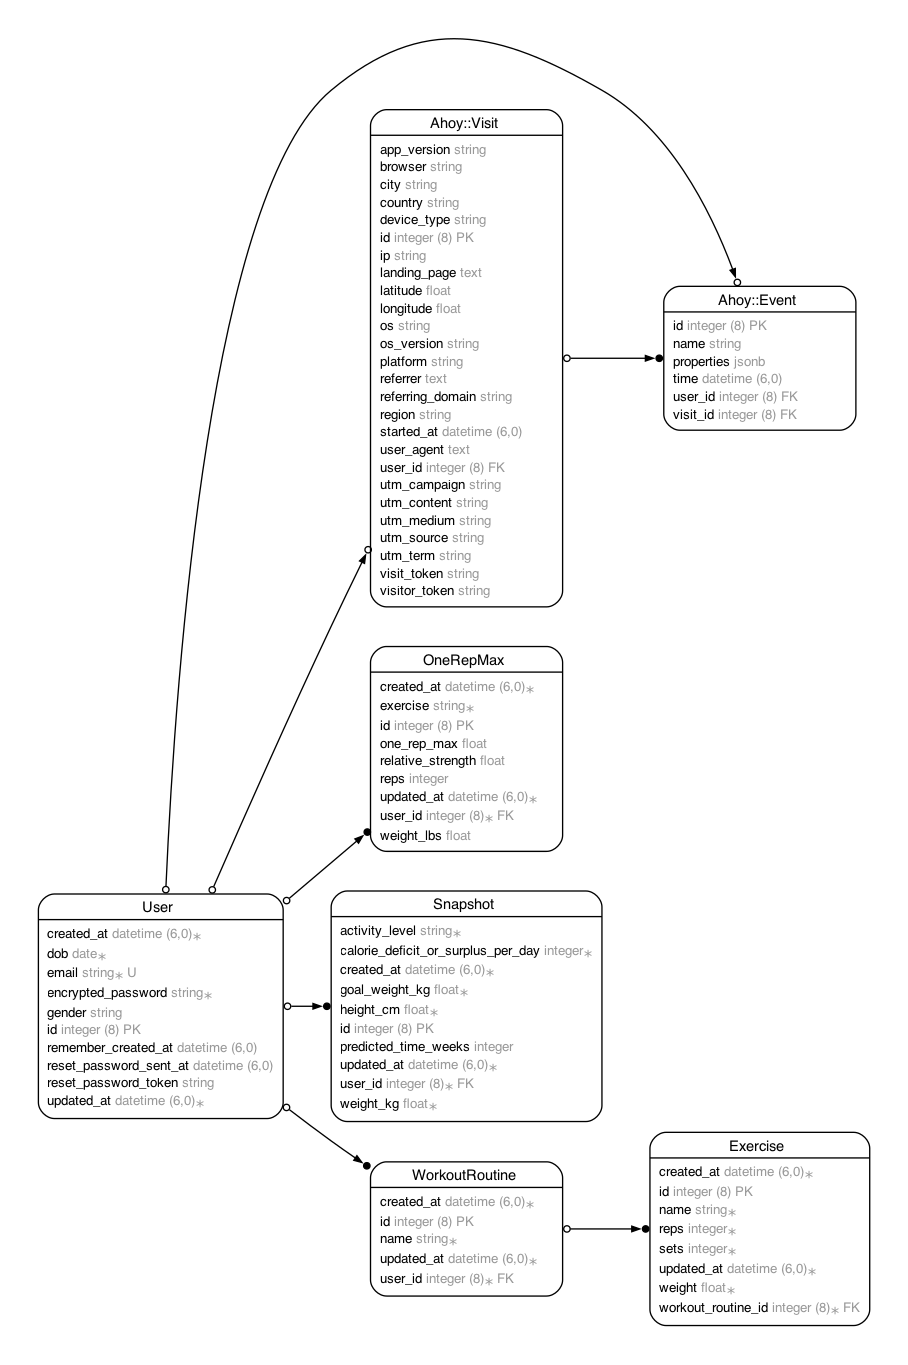
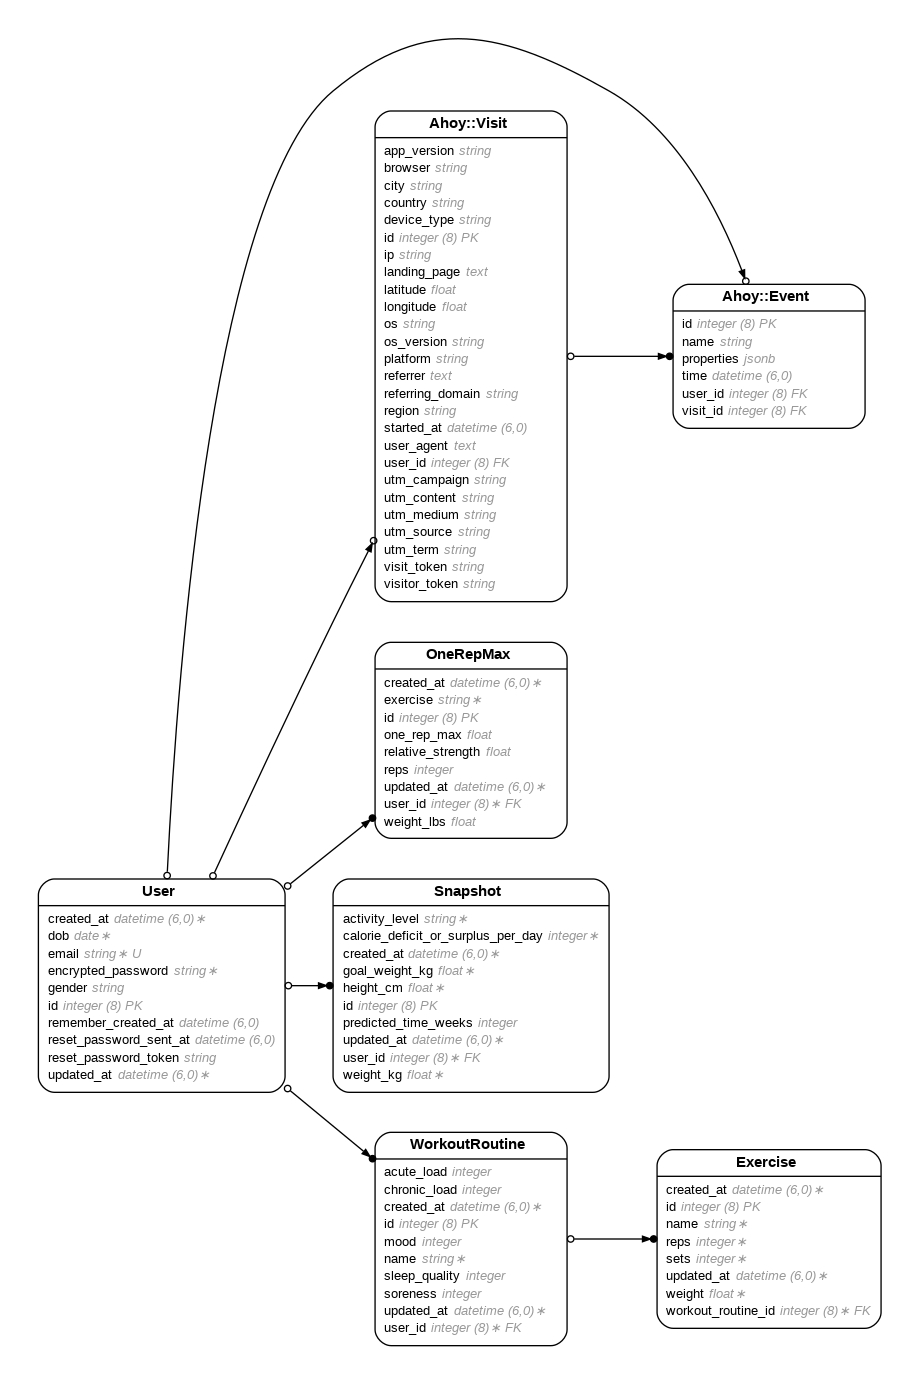
burnout predictor finished

diff --git a/app/assets/stylesheets/application.css b/app/assets/stylesheets/application.css
@@ -136,3 +136,7 @@
   width: 100%;
   height: auto;
 }
+
+.text-center-placeholder::placeholder {
+  text-align: center;
+}

diff --git a/app/models/concerns/workoutable.rb b/app/models/concerns/workoutable.rb
@@ -22,4 +22,58 @@ module Workoutable
       trackable: self
     )
   end
+
+  def acwr
+    return 0 if chronic_load.zero? # Avoid division by zero
+
+    acute_load.to_f / chronic_load
+  end
+
+  def acwr_status
+    # Check if there is sufficient data for chronic load
+    total_workouts = exercises.where('created_at >= ?', 4.weeks.ago).count
+    return 'Insufficient Data (Need at least 4 weeks of workouts)' if total_workouts < 4
+
+    # Calculate ACWR and determine status
+    if acwr > 1.5
+      'High Risk of Burnout'
+    elsif acwr.between?(0.8, 1.3)
+      'Optimal Training Zone'
+    elsif acwr < 0.8
+      'Undertraining'
+    else
+      'Moderate Risk'
+    end
+  end
+
+  # Calculate Acute Load (last 7 days)
+  def calculate_acute_load
+    exercises.where('created_at >= ?', 7.days.ago).sum do |exercise|
+      exercise.reps * exercise.sets * exercise.weight
+    end
+  end
+
+  # Calculate Chronic Load (average over last 4 weeks)
+  def calculate_chronic_load
+    total_load = exercises.where('created_at >= ?', 4.weeks.ago).sum do |exercise|
+      exercise.reps * exercise.sets * exercise.weight
+    end
+    total_days = (Date.today - 4.weeks.ago.to_date).to_i
+    total_days.zero? ? 0 : total_load / total_days
+  end
+
+  def tsb
+    chronic_load - acute_load
+  end
+
+  def calculate_burnout_risk_score
+    # Use the model's attributes directly, with fallback default values
+    mood_value = mood || 5
+    sleep_quality_value = sleep_quality || 5
+    soreness_value = soreness || 5
+    acwr_value = acwr || 0
+
+    # Calculate the burnout risk score
+    100 - (acwr_value * 100) + (mood_value * 10) + (sleep_quality_value * 10) - (soreness_value * 10)
+  end
 end

diff --git a/app/controllers/concerns/workout_routine_concern.rb b/app/controllers/concerns/workout_routine_concern.rb
@@ -11,7 +11,13 @@ module WorkoutRoutineConcern
     @workout_routines = current_user.workout_routines
   end
 
-  def show; end
+  def show
+    @workout_routine = WorkoutRoutine.find(params[:id])
+    @workout_routine.acute_load = @workout_routine.calculate_acute_load
+    @workout_routine.chronic_load = @workout_routine.calculate_chronic_load
+
+    @workout_routine.save
+  end
 
   def new
     @workout_routine = current_user.workout_routines.new
@@ -30,6 +36,10 @@ module WorkoutRoutineConcern
 
   def update
     if @workout_routine.update(workout_routine_params)
+      @workout_routine.acute_load = @workout_routine.calculate_acute_load
+      @workout_routine.chronic_load = @workout_routine.calculate_chronic_load
+      @workout_routine.burnout_risk_score = @workout_routine.calculate_burnout_risk_score
+      @workout_routine.save
       redirect_to @workout_routine, notice: 'Workout routine was successfully updated.'
     else
       render :edit
@@ -44,7 +54,8 @@ module WorkoutRoutineConcern
   private
 
   def workout_routine_params
-    params.require(:workout_routine).permit(:name, :description)
+    params.require(:workout_routine).permit(:name, :description, :mood, :soreness, :sleep_quality, :acute_load,
+                                            :chronic_load, :burnout_risk_score)
   end
 
   def set_workout_routine

diff --git a/app/models/workout_routine.rb b/app/models/workout_routine.rb
@@ -4,11 +4,16 @@
 #
 # Table name: workout_routines
 #
-#  id         :bigint           not null, primary key
-#  name       :string
-#  created_at :datetime         not null
-#  updated_at :datetime         not null
-#  user_id    :bigint           not null
+#  id            :bigint           not null, primary key
+#  acute_load    :integer
+#  chronic_load  :integer
+#  mood          :integer
+#  name          :string
+#  sleep_quality :integer
+#  soreness      :integer
+#  created_at    :datetime         not null
+#  updated_at    :datetime         not null
+#  user_id       :bigint           not null
 #
 # Indexes
 #
@@ -28,6 +33,15 @@ class WorkoutRoutine < ApplicationRecord
   after_destroy :track_deletion
 
   validates :name, presence: true
-
   include Workoutable
+  before_validation :set_default_metrics, if: :new_record?
+  after_initialize :set_default_metrics, if: :new_record?
+  validates :mood, :sleep_quality, :soreness, presence: true,
+                                              numericality: { only_integer: true, greater_than_or_equal_to: 1, less_than_or_equal_to: 10 }
+
+  def set_default_metrics
+    self.mood ||= 5
+    self.sleep_quality ||= 5
+    self.soreness ||= 5
+  end
 end

diff --git a/db/schema.rb b/db/schema.rb
@@ -12,7 +12,7 @@
 #
 # It's strongly recommended that you check this file into your version control system.
 
-ActiveRecord::Schema[7.1].define(version: 20_250_119_215_905) do
+ActiveRecord::Schema[7.1].define(version: 20_250_417_000_049) do
   # These are extensions that must be enabled in order to support this database
   enable_extension 'plpgsql'
 
@@ -133,6 +133,11 @@ ActiveRecord::Schema[7.1].define(version: 20_250_119_215_905) do
     t.bigint 'user_id', null: false
     t.datetime 'created_at', null: false
     t.datetime 'updated_at', null: false
+    t.integer 'acute_load'
+    t.integer 'chronic_load'
+    t.integer 'mood'
+    t.integer 'sleep_quality'
+    t.integer 'soreness'
     t.index ['user_id'], name: 'index_workout_routines_on_user_id'
   end
 

diff --git a/db/migrate/20250417000049_add_burnout_metrics_to_workout_routines.rb b/db/migrate/20250417000049_add_burnout_metrics_to_workout_routines.rb
@@ -1,0 +1,11 @@
+# frozen_string_literal: true
+
+class AddBurnoutMetricsToWorkoutRoutines < ActiveRecord::Migration[7.1]
+  def change
+    add_column :workout_routines, :acute_load, :integer
+    add_column :workout_routines, :chronic_load, :integer
+    add_column :workout_routines, :mood, :integer
+    add_column :workout_routines, :sleep_quality, :integer
+    add_column :workout_routines, :soreness, :integer
+  end
+end
